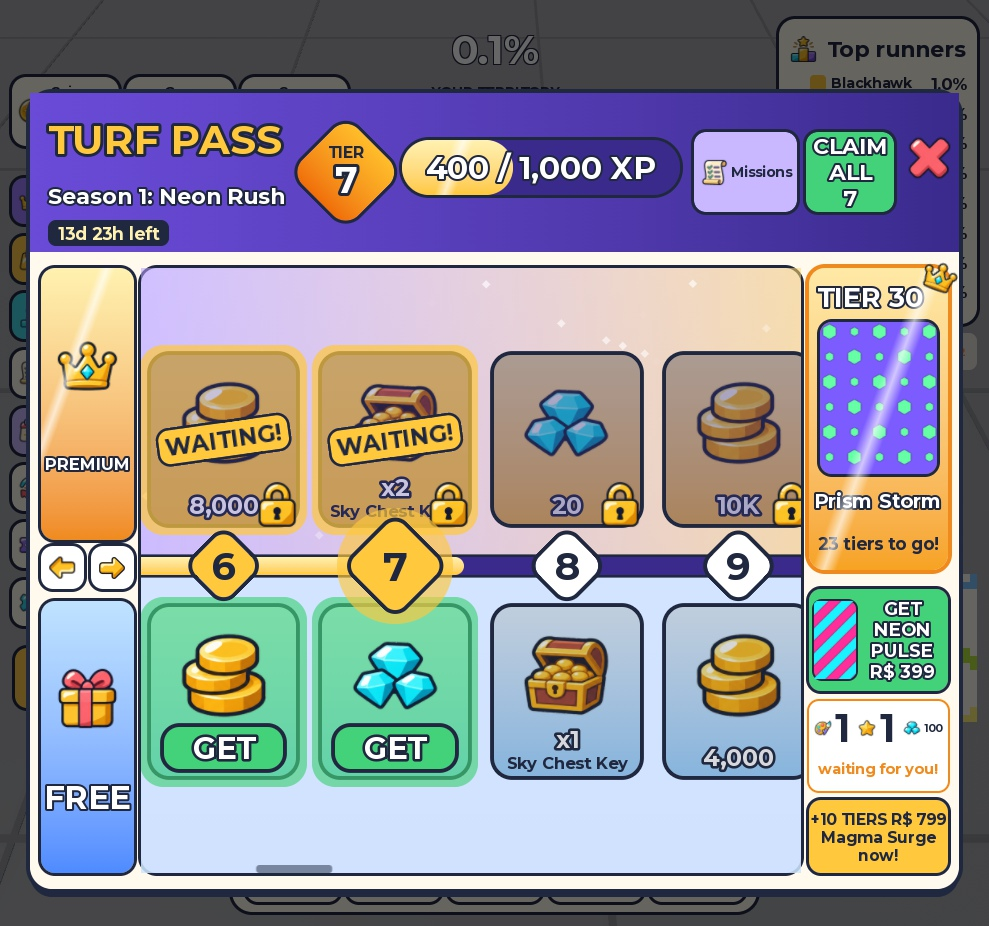
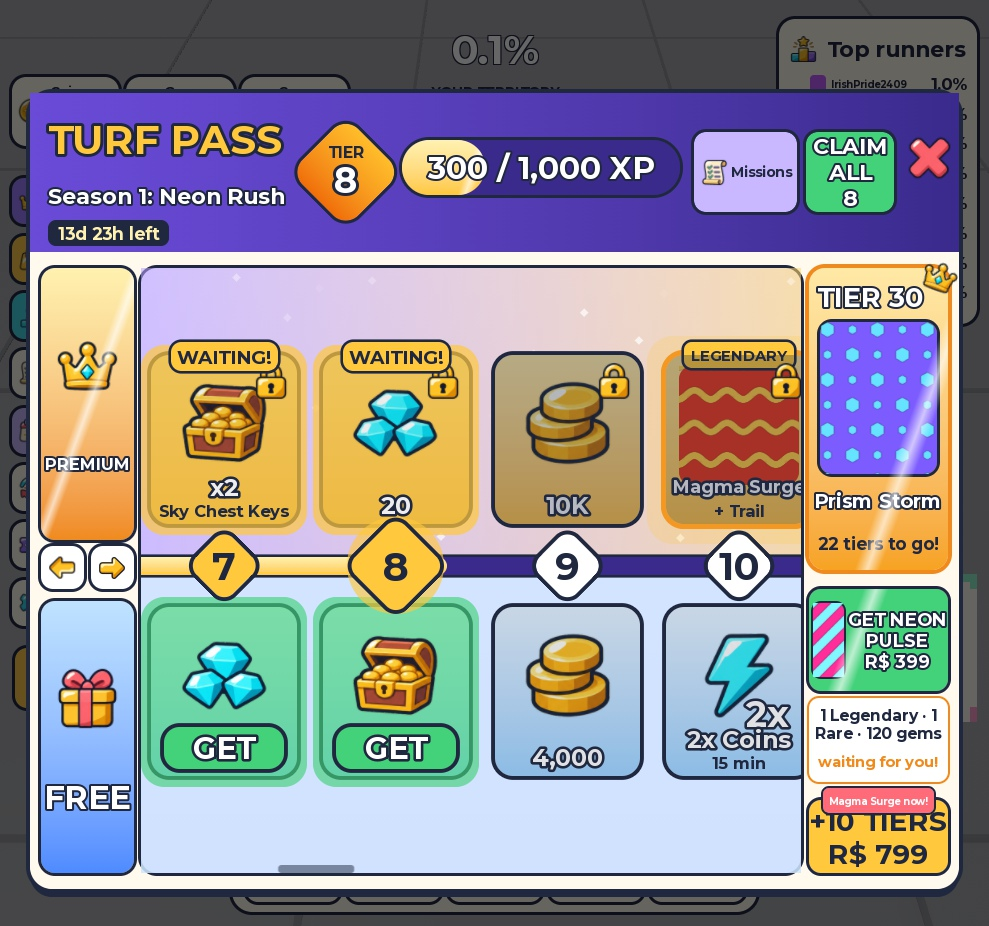
Turf Pass round 4: waiting ribbons, value line in words, jump tag, named popup button, round-end pass button, daily-reward XP, HUD catch-up tag, Get in Pass shop buttons

diff --git a/docs/BATTLEPASS_STATUS.md b/docs/BATTLEPASS_STATUS.md
@@ -1,6 +1,6 @@
 # Battle pass build status
 
-Heartbeat: 2026-11-18 03:40 local, lead session (interactive)
+Heartbeat: 2026-11-18 04:30 local, lead session (interactive)
 
 Design: `docs/BATTLEPASS.md`. Owner decisions: Premium 399 R$, Premium+ 799 R$ (+10 tiers), 14-day seasons, 30 tiers.
 Product ids stay 0 until the owner creates them on the dashboard or approves creation (paid items).
